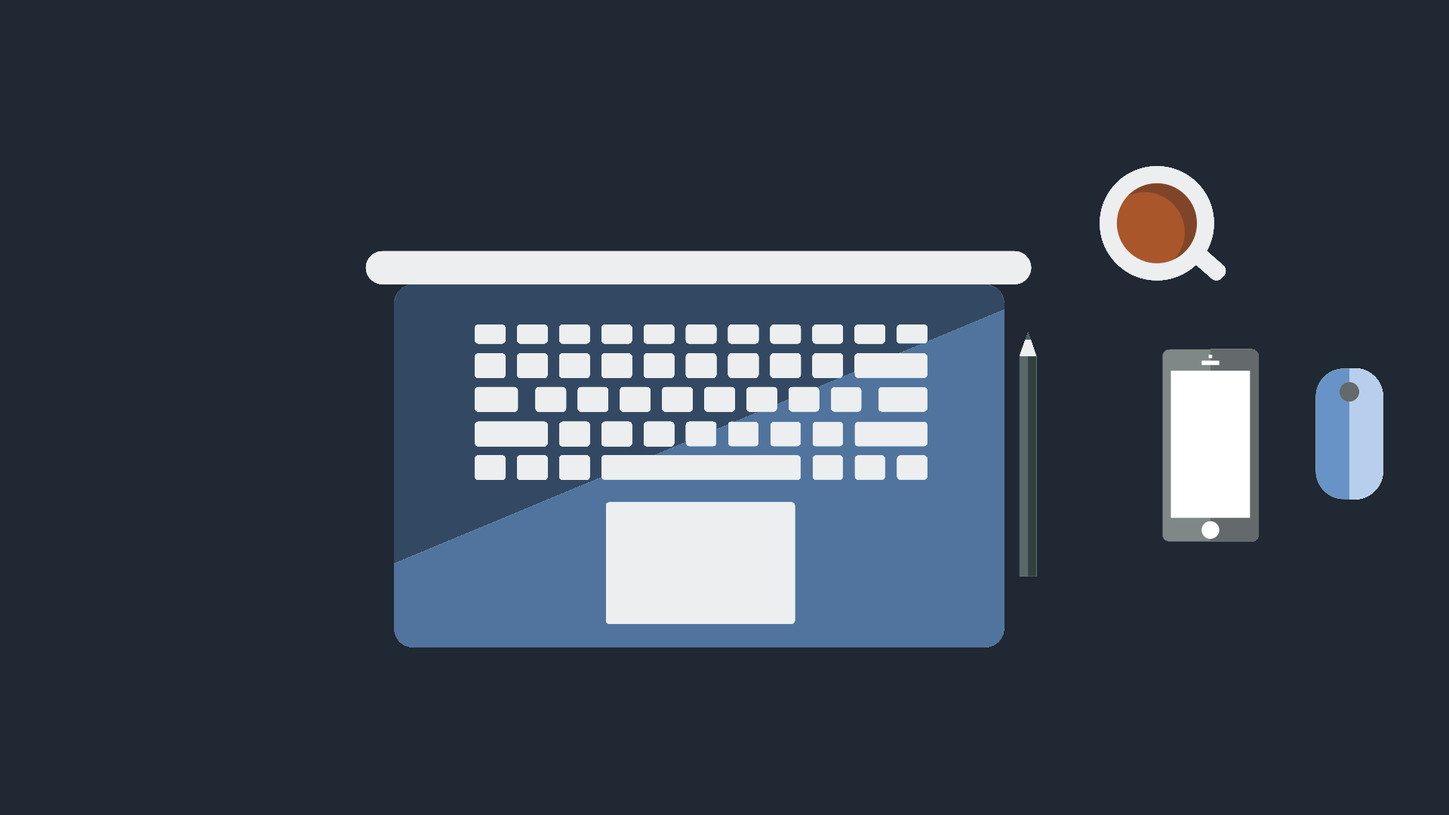
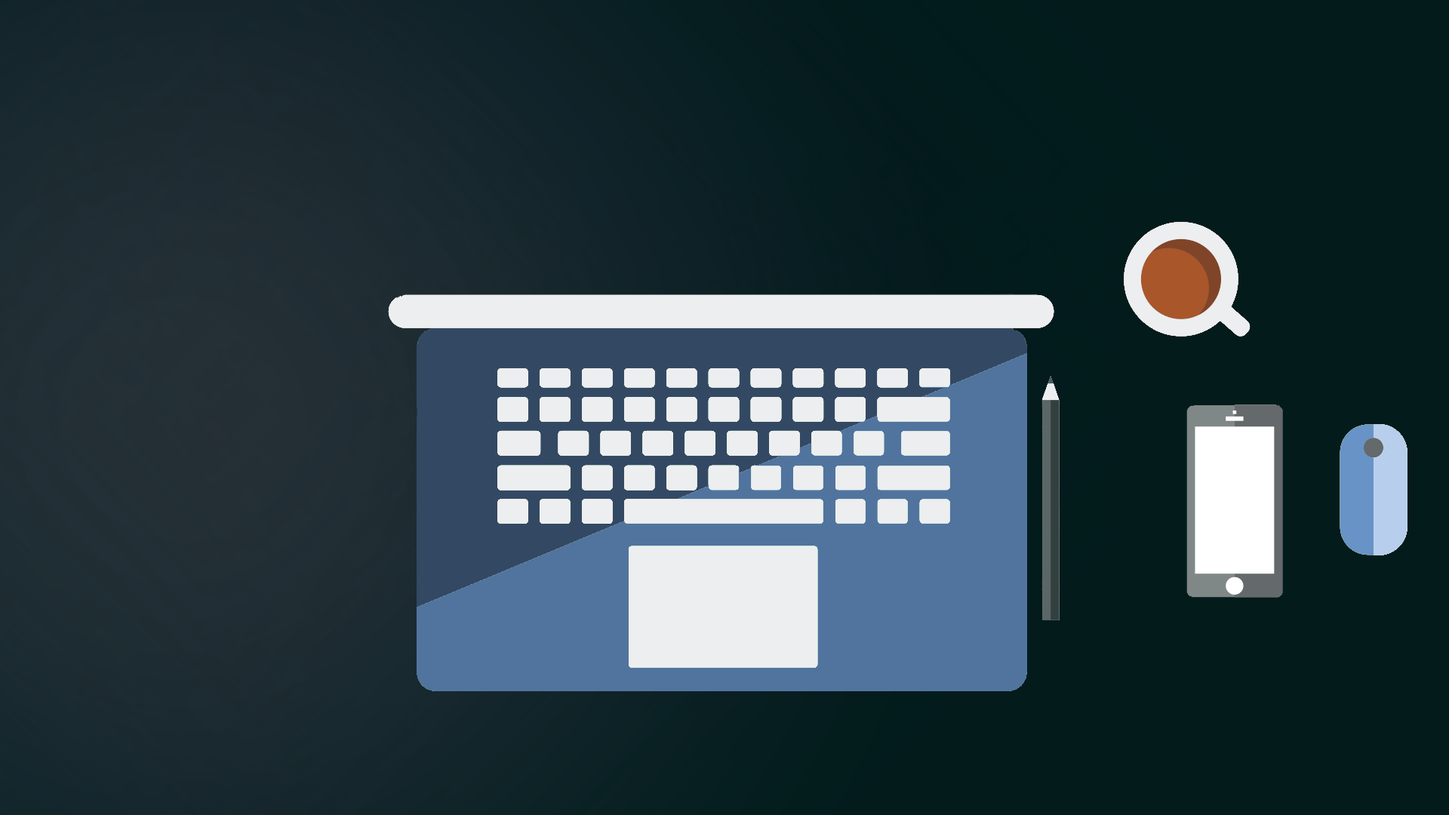
new style

diff --git a/dist/css/style.min.css b/dist/css/style.min.css
@@ -1,1 +1,1 @@
-body{margin:0;font-family:McLaren,cursive}.container{max-width:950px;margin:0 auto}.title{max-width:250px;display:block;margin:0 auto;text-align:center;font-weight:700;font-size:40px;line-height:60px;color:#66fcf1;margin-bottom:60px;border:solid 2px #66fcf1;border-radius:40px;background-color:#1f2833}.hamburger{display:none}header{min-height:40px;width:100vw}header nav{height:40px;position:fixed;display:inline-block;width:100vw;background-color:#144450;z-index:9}header nav .menu{padding-top:10px;padding-left:30px;display:flex;list-style:none}header nav .menu_item{text-decoration:none;color:#fff;font-size:20px;margin-right:20px;font-weight:700}header nav .menu_item a:-webkit-any-link{text-decoration:none;color:#66fcf1}header nav .menu_item i{color:#66fcf1}.main{min-height:1000px;padding:60px 0 60px 0;background:url(../img/firstbg3.png) center center/cover no-repeat;background-color:#1f2833}.main .tablet{display:block;top:-110px;position:relative;margin-left:50px}.main .tablet_text{position:absolute;top:77px;left:41px;line-height:29px;font-size:13px}.main .tablet_text span{font-weight:700;font-size:15px}.main h1{max-width:550px}.main h2{display:block;margin:0 auto;max-width:650px;margin-top:15px;text-align:center;font-size:25px;text-shadow:2px 1px #45a29e;color:#66fcf1;line-height:45px;border:solid 2px #66fcf1;border-radius:40px;background-color:#1f2833}.skills{position:relative;background-color:#1f2833;padding:60px 0 60px 0;min-height:700px}.skills .skills_list{margin-top:20px;list-style:none;display:flex;flex-flow:wrap;justify-content:space-around;align-content:center;align-items:center}.skills .skills_list .skills_list_item{width:295px;min-height:200px;border:solid 2px #144450b7;border-radius:30px;background-color:#66fCF1b5;margin-top:10px;color:#000}.skills .skills_list .skills_list_item img{display:block;margin:0 auto;width:100px;height:100px}.skills .skills_list .skills_list_item .skills_descr{margin-top:15px;text-align:center}.skills_divider{top:0;height:5px;width:400px;color:#fff;margin:0 auto}.small{width:70px}.portfolio{position:relative;padding:50px 0 60px 0;min-height:1000px;background:url(../img/SurfaceLaptop.jpg);background-size:1200px 750px;background-repeat:no-repeat;background-position:center center;background-color:#000}.portfolio h1{margin-bottom:0}.portfolio .portfolio-carousel{position:relative;display:block;margin:0 auto;max-width:650px;top:132px}.portfolio .portfolio-carousel img{width:647px;height:438px;margin:0 auto}.portfolio .slick-next,.portfolio .slick-prev{position:absolute;top:50%;transform:translateY(-50%);left:-96px;border:none;background-color:#000;padding:0;margin:0}.portfolio .slick-next i,.portfolio .slick-prev i{color:#ccd9d7;font-size:50px}.portfolio .slick-next{right:-86px;left:auto}.news{min-height:700px;background-color:#1f2833;padding:60px 0;background:url(../img/network.jpg) center center/cover no-repeat}.news_blog{display:flex;flex-direction:row;justify-content:space-around}.news_blog_item{padding:10px 10px;width:290px;text-align:center;background-color:#1f2833;color:#fff;border:solid 6px #144450;border-radius:10px}.news_blog_item .news_title{font-size:25px;margin-bottom:15px;font-style:bold;color:#66fcf1}footer{min-height:100px;background-color:#1f2833;padding:50px 0}footer .footer_contacts{margin:0 auto;margin-top:45px;display:flex;width:400px;justify-content:space-between;flex-direction:row;list-style:none;font-size:30px}footer .footer_contacts a{text-decoration:none;color:#66fcf1}@media screen and (max-width:1450px){.main{min-height:800px;background-size:1440px 800px;background-position:top}.main .tablet img{width:250px;height:350px;margin-left:-30px}.main .tablet_text{top:66px;left:5px;line-height:23px;font-size:12px}.main .tablet_text span{font-size:13px}.main h1{max-width:450px;margin-bottom:10px}.main h2{font-size:20px;max-width:500px}.carousel-item{height:600px}.carousel-item img{height:240px;width:254px;transform:translate(-31%,18%)}.title{font-size:33px;max-width:200px}}@media screen and (max-width:1025px){.title{font-size:28px}header nav .menu_item{font-size:16px}.main{padding-top:30px;min-height:600px;background-size:1020px 600px;background-position:top}.main h1{max-width:300px;font-size:20px}.main h2{max-width:400px;font-size:14px;line-height:25px}.main .tablet{margin-left:40px}.main .tablet img{width:200px;height:300px}.main .tablet_text{top:54px;left:-1px;line-height:20px;font-size:10px}.main .tablet_text span{font-size:12px}.portfolio{min-height:700px;background-size:1000px 500px;background-position:bottom}.portfolio .portfolio-carousel{top:166px;left:0}.portfolio .portfolio-carousel .portfolio_img{width:537px;height:288px}}@media screen and (max-width:780px){.main .tablet{display:none}footer{padding:20px 0}.portfolio{min-height:600px}.portfolio .portfolio-carousel{top:67px}.news{min-height:600px}.news_blog{flex-direction:column;align-items:center}.news_blog_item{width:310px;margin-bottom:15px}}@media screen and (max-width:525px){.title{margin-bottom:20px;font-size:20px;max-width:180px;height:50px;line-height:44px}header nav .menu{position:fixed;flex-direction:column;justify-content:center;align-items:left;top:0;left:-100%;width:47%;height:100vh;padding-left:10px;background-color:rgba(0,0,0,.8);transition:.6s all;font-size:15px}header nav .menu_item{font-size:16px;margin-bottom:30px}header nav .menu_active{left:0}.hamburger{display:block;position:absolute;right:20px;top:50%;transform:translateY(-50%);width:26px;height:12px}.hamburger span{display:block;height:2px;width:100%;background-color:#fff;margin-bottom:2px;transition:.5s all}.hamburger_active span{margin-bottom:-2px}.hamburger_active span:nth-child(1){transform:translateY(3px) rotate(-45deg)}.hamburger_active span:nth-child(2){display:none}.hamburger_active span:nth-child(3){transform:translateY(3px) rotate(45deg)}.main{background-size:400px 250px;background-position:bottom;min-height:450px}.main .tablet{display:none}.main h2{font-size:16px;padding:5px 10px}.skills{padding:20px 0}.portfolio{background-size:500px 350px;background-position:bottom;min-height:400px;padding:20px 0}.portfolio h1{margin-bottom:40px}.portfolio .portfolio-carousel{top:-5px}.portfolio .portfolio-carousel .portfolio_img{width:275px;height:210px}.news{margin:0 auto}.news_blog{flex-direction:column;align-items:center}.news_blog_item{margin-bottom:10px}footer{padding:20px 0 25px 0}footer .footer_contacts{width:300px}}
+body{margin:0;font-family:McLaren,cursive;background:url(../img/backg.png) center center/cover repeat}.container{max-width:950px;margin:0 auto}.title{max-width:250px;display:block;margin:0 auto;text-align:center;font-weight:700;font-size:40px;line-height:60px;color:#66fcf1;margin-bottom:60px}.divider{display:table;font-size:40px;text-align:center;width:75%;margin:40px auto}.divider span{display:table-cell;position:relative}.divider span:first-child,.divider span:last-child{width:50%;top:30px;background-size:100% 2px;background-position:0 0,0 100%;background-repeat:no-repeat}.divider span:first-child{background-image:linear-gradient(90deg,transparent,#66fcf1)}.divider span:nth-child(2){color:#66fcf1;padding:0 5px;width:auto;white-space:nowrap}.divider span:last-child{background-image:linear-gradient(90deg,#66fcf1,transparent)}.hamburger{display:none}header{min-height:40px;width:100vw}header nav{height:40px;position:fixed;display:inline-block;width:100vw;background-image:radial-gradient(circle 602px at 22.9% 55.3%,#1f7474 7.1%,#031b1b 90%);z-index:9}header nav .menu{padding-top:10px;padding-left:30px;display:flex;list-style:none}header nav .menu_item{text-decoration:none;color:#fff;font-size:20px;margin-right:20px;font-weight:700}header nav .menu_item a:-webkit-any-link{text-decoration:none;color:#66fcf1}header nav .menu_item i{color:#66fcf1}.main{min-height:1000px;padding:120px 0 60px 0}.main .tablet{display:block;top:-110px;position:relative;margin-left:50px}.main .tablet_text{position:absolute;top:77px;left:41px;line-height:29px;font-size:13px}.main .tablet_text span{font-weight:700;font-size:15px}.main h1{max-width:800px;font-size:60px}.main h2{display:block;margin:0 auto;max-width:650px;margin-top:15px;text-align:center;font-size:25px;color:#fff;line-height:45px}.skills{position:relative;padding:60px 0 60px 0;min-height:700px}.skills .skills_list{margin-top:20px;list-style:none;display:flex;flex-flow:wrap;justify-content:space-around;align-content:center;align-items:center}.skills .skills_list .skills_list_item{width:295px;min-height:200px;border:solid 2px #144450b7;border-radius:30px;background-color:#66fCF1b5;margin-top:10px;color:#000}.skills .skills_list .skills_list_item img{display:block;margin:0 auto;width:100px;height:100px}.skills .skills_list .skills_list_item .skills_descr{margin-top:15px;text-align:center}.skills_divider{top:0;height:5px;width:400px;color:#66fCF1b5;margin:0 auto}.small{width:70px}.portfolio{position:relative;padding:50px 0 60px 0;min-height:1000px;background:url(../img/SurfaceLaptop.png);background-size:1200px 750px;background-repeat:no-repeat;background-position:center center}.portfolio h1{margin-bottom:0}.portfolio .portfolio-carousel{position:relative;display:block;margin:0 auto;max-width:650px;top:56px}.portfolio .portfolio-carousel img{width:647px;height:439px;margin:0 auto}.portfolio .slick-next,.portfolio .slick-prev{position:absolute;top:50%;transform:translateY(-50%);left:-96px;border:none;background-color:#000;padding:0;margin:0}.portfolio .slick-next i,.portfolio .slick-prev i{color:#66fcf1;background-color:none;font-size:50px}.portfolio .slick-next{right:-86px;left:auto}.news{min-height:700px;padding:60px 0}.news_blog{display:flex;flex-direction:row;justify-content:space-around}.news_blog_item{padding:10px 10px;width:290px;text-align:center;background-color:#1f2833;color:#fff;border:solid 6px #144450;border-radius:10px}.news_blog_item .news_title{font-size:25px;margin-bottom:15px;font-style:bold;color:#66fcf1}.news .button{width:130px;height:40px;background:linear-gradient(to bottom,#031b1b 0,#3e5158 100%);border:none;border-radius:5px;position:relative;border-bottom:4px solid #243035;color:#66fcf1;text-shadow:1px 1px 1px rgba(0,0,0,.4);font-size:15px;line-height:35px;text-align:left;text-indent:5px;box-shadow:0 3px 0 0 rgba(0,0,0,.2);cursor:pointer;display:block;margin:20px auto;text-decoration:none}.news .button:active{box-shadow:0 2px 0 0 rgba(0,0,0,.2);top:1px}.news .button:after{content:"";width:0;height:0;display:block;border-top:20px solid #243035;border-bottom:20px solid #243035;border-left:16px solid transparent;border-right:20px solid #243035;position:absolute;opacity:.6;right:0;top:0;border-radius:0 5px 5px 0}footer{min-height:100px;padding:50px 0}footer .footer_contacts{margin:0 auto;margin-top:45px;display:flex;width:400px;justify-content:space-between;flex-direction:row;list-style:none;font-size:30px}footer .footer_contacts a{text-decoration:none;color:#66fcf1}@media screen and (max-width:1450px){.main{min-height:800px;background-size:1440px 800px;background-position:top}.main .tablet img{width:250px;height:350px;margin-left:-30px}.main .tablet_text{top:66px;left:5px;line-height:23px;font-size:12px}.main .tablet_text span{font-size:13px}.main h1{max-width:450px;margin-bottom:10px}.main h2{font-size:20px;max-width:500px}.carousel-item{height:600px}.carousel-item img{height:240px;width:254px;transform:translate(-31%,18%)}.title{font-size:33px;max-width:200px}}@media screen and (max-width:1025px){.title{font-size:28px}header nav .menu_item{font-size:16px}.main{padding-top:30px;min-height:600px;background-size:1020px 600px;background-position:top}.main h1{max-width:300px;font-size:20px}.main h2{max-width:400px;font-size:14px;line-height:25px}.main .tablet{margin-left:40px}.main .tablet img{width:200px;height:300px}.main .tablet_text{top:54px;left:-1px;line-height:20px;font-size:10px}.main .tablet_text span{font-size:12px}.portfolio{min-height:700px;background-size:1000px 500px;background-position:bottom}.portfolio .portfolio-carousel{top:166px;left:0}.portfolio .portfolio-carousel .portfolio_img{width:537px;height:288px}}@media screen and (max-width:780px){.main .tablet{display:none}footer{padding:20px 0}.portfolio{min-height:600px}.portfolio .portfolio-carousel{top:67px}.news{min-height:600px}.news_blog{flex-direction:column;align-items:center}.news_blog_item{width:310px;margin-bottom:15px}}@media screen and (max-width:525px){.title{margin-bottom:20px;font-size:20px;max-width:180px;height:50px;line-height:44px}header nav .menu{position:fixed;flex-direction:column;justify-content:center;align-items:left;top:0;left:-100%;width:47%;height:100vh;padding-left:10px;background-color:rgba(0,0,0,.8);transition:.6s all;font-size:15px}header nav .menu_item{font-size:16px;margin-bottom:30px}header nav .menu_active{left:0}.hamburger{display:block;position:absolute;right:20px;top:50%;transform:translateY(-50%);width:26px;height:12px}.hamburger span{display:block;height:2px;width:100%;background-color:#fff;margin-bottom:2px;transition:.5s all}.hamburger_active span{margin-bottom:-2px}.hamburger_active span:nth-child(1){transform:translateY(3px) rotate(-45deg)}.hamburger_active span:nth-child(2){display:none}.hamburger_active span:nth-child(3){transform:translateY(3px) rotate(45deg)}.main{background-size:400px 250px;background-position:bottom;min-height:450px}.main .tablet{display:none}.main h2{font-size:16px;padding:5px 10px}.skills{padding:20px 0}.portfolio{background-size:500px 350px;background-position:bottom;min-height:400px;padding:20px 0}.portfolio h1{margin-bottom:40px}.portfolio .portfolio-carousel{top:-5px}.portfolio .portfolio-carousel .portfolio_img{width:275px;height:210px}.news{margin:0 auto}.news_blog{flex-direction:column;align-items:center}.news_blog_item{margin-bottom:10px}footer{padding:20px 0 25px 0}footer .footer_contacts{width:300px}}

diff --git a/dist/index.html b/dist/index.html
@@ -1,1 +1,1 @@
-<!DOCTYPE html><html lang="en"><head><meta charset="UTF-8"><meta name="viewport" content="width=device-width,initial-scale=1"><meta http-equiv="X-UA-Compatible" content="ie=edge"><title>Vaismand</title><link rel="stylesheet" href="css/bootstrap-reboot.min.css"><link rel="stylesheet" href="css/bootstrap-grid.min.css"><link rel="stylesheet" href="css/bootstrap.min.css"><link rel="stylesheet" href="css/slick.css"><link rel="stylesheet" href="css/fonts.css"><link rel="stylesheet" href="css/animation.css"><link rel="stylesheet" href="css/style.min.css"></head><body><header><nav><ul class="menu"><li class="menu_item"><a href="#">Home</a> <i class="fas fa-home"></i></li><li class="menu_item"><a href="#skills">My skills</a> <i class="fab fa-html5"></i></li><li class="menu_item"><a href="#portfolio">Portfolio</a> <i class="fab fa-github"></i></li><li class="menu_item"><a href="#news">News</a> <i class="far fa-newspaper"></i></li><li class="menu_item"><a href="#contact_me">Contact me</a> <i class="fas fa-address-book"></i></li></ul><div class="hamburger"><span></span> <span></span> <span></span></div></nav></header><section class="main"><h1 class="title">Freelance Web-Developer</h1><h2>Hi There! My name is David and I am self-taught Web-Developer located in Vienna, AT</h2><div class="tablet"><img src="img/tablet.png" alt="tablet"><div class="tablet_text"><span>Name:</span> David Vaisman<br><span>Place:</span> Vienna, Austria<br><span>Speciality:</span> Web-Developer<br><span>Education:</span> Udemy courses<br><span>Job-style:</span> Freelance<br><span>Services:</span> Building New Sites,<br>Changing old sites, Fixing etc.</div></div></section><section id="skills" class="skills"><div class="skills_divider"></div><div class="container"><h1 class="title">My Skills</h1><div class="skills_list"><div class="skills_list_item"><img src="icons/html.png" alt="html" class="wow slideInLeft animated"><div class="skills_descr">Creating web sites with short, responsive and adaptive code</div></div><div class="skills_list_item"><img src="icons/css3_2.png" alt="css" class="wow slideInUp animated"><div class="skills_descr">Using all new features of CSS3, as flexboxing, animations etc.</div></div><div class="skills_list_item"><img src="icons/js.png" alt="js" class="wow slideInRight animated"><div class="skills_descr">Javascript for making your site interactive and responsive</div></div><div class="skills_list_item"><img src="icons/sass.png" alt="sass" class="wow slideInLeft animated"><div class="skills_descr">Sass stylesheet language for better and faster work on your project</div></div><div class="skills_list_item"><img src="icons/bootstrap.png" alt="bootstrap" class="wow slideInUp animated"><div class="skills_descr">Bootstrap4 for more interactivity and adaptivity of your sites</div></div><div class="skills_list_item"><img src="icons/jquery.png" alt="jquery" class="wow slideInRight animated"><div class="skills_descr">Jquery library and tools for better functionality of your site</div></div></div></div></section><section id="portfolio" class="portfolio"><h1 class="title">My Works</h1><div class="container"><div class="portfolio-carousel"><div><a href="www.vaismand.github.io"><img src="img/site6.jpg" alt="site" class="portfolio_img"></a></div><div><a href="www.vaismand.github.io"><img src="img/site6.jpg" alt="site" class="portfolio_img"></a></div><div><a href="www.vaismand.github.io"><img src="img/site6.jpg" alt="site" class="portfolio_img"></a></div></div></div></section><section id="news" class="news"><div class="container"><h1 class="title">IT News</h1><div class="news_blog"><div class="news_blog_item"><div class="news_title">Modern web development: what makes it ‘modern’?</div><div class="news_text">The phrase ‘modern web development’ is one that I have clung to during years writing copy for Packt books. But what does it really mean? I know it means something because it sounds right – but there’s still a part of me that feels that it’s a bit vague and empty. <a href="https://hub.packtpub.com/modern-web-development-what-makes-it-modern/">Continue reading</a></div></div><div class="news_blog_item"><div class="news_title">Modern web development: what makes it ‘modern’?</div><div class="news_text">The phrase ‘modern web development’ is one that I have clung to during years writing copy for Packt books. But what does it really mean? I know it means something because it sounds right – but there’s still a part of me that feels that it’s a bit vague and empty. <a href="https://hub.packtpub.com/modern-web-development-what-makes-it-modern/">Continue reading</a></div></div><div class="news_blog_item"><div class="news_title">Modern web development: what makes it ‘modern’?</div><div class="news_text">The phrase ‘modern web development’ is one that I have clung to during years writing copy for Packt books. But what does it really mean? I know it means something because it sounds right – but there’s still a part of me that feels that it’s a bit vague and empty. <a href="https://hub.packtpub.com/modern-web-development-what-makes-it-modern/">Continue reading</a></div></div></div></div></section><footer id="contact_me"><div class="container"><h1 class="title">Contact Me</h1><div class="footer_contacts"><a href="mailto:vaisman.david91@gmail.com"><i class="far fa-envelope"></i></a> <a href="https://www.linkedin.com/in/david-vaisman-041212129/"><i class="fab fa-linkedin"></i></a> <a href="https://github.com/vaismand/portfolio"><i class="fab fa-github"></i></a> <a href="tel:+436644757210" class="header__phone"><i class="fab fa-whatsapp"></i></a> <a href="https://join.skype.com/invite/gEVxrEIyEKgc"><i class="fab fa-skype"></i></a></div></div></footer><script src="js/wow.min.js"></script><script src="js/jquary.min.js"></script><script src="https://kit.fontawesome.com/bbb5a677af.js" crossorigin="anonymous"></script><script src="js/bootstrap.min.js"></script><script src="js/slick.min.js"></script><script src="js/script.js"></script></body></html>
+<!DOCTYPE html><html lang="en"><head><meta charset="UTF-8"><meta name="viewport" content="width=device-width,initial-scale=1"><meta http-equiv="X-UA-Compatible" content="ie=edge"><title>Vaismand</title><link rel="stylesheet" href="css/bootstrap-reboot.min.css"><link rel="stylesheet" href="css/bootstrap-grid.min.css"><link rel="stylesheet" href="css/bootstrap.min.css"><link rel="stylesheet" href="css/slick.css"><link rel="stylesheet" href="css/fonts.css"><link rel="stylesheet" href="css/animation.css"><link rel="stylesheet" href="css/style.min.css"></head><body><header><nav><ul class="menu"><li class="menu_item"><a href="#">Home</a> <i class="fas fa-home"></i></li><li class="menu_item"><a href="#skills">My skills</a> <i class="fab fa-html5"></i></li><li class="menu_item"><a href="#portfolio">Portfolio</a> <i class="fab fa-github"></i></li><li class="menu_item"><a href="#news">News</a> <i class="far fa-newspaper"></i></li><li class="menu_item"><a href="#contact_me">Contact me</a> <i class="fas fa-address-book"></i></li></ul><div class="hamburger"><span></span> <span></span> <span></span></div></nav></header><section class="main"><h1 class="title">WEB DEVELOPER</h1><h2>Hi There! My name is David and I am self-taught freelance Web-Developer located in Vienna, AT</h2></section><section id="skills" class="skills"><div class="divider"><span></span><span>My Skills</span><span></span></div><div class="container"><div class="skills_list"><div class="skills_list_item"><img src="icons/html.png" alt="html" class="wow slideInLeft animated"><div class="skills_descr">Creating web sites with short, responsive and adaptive code</div></div><div class="skills_list_item"><img src="icons/css3_2.png" alt="css" class="wow slideInUp animated"><div class="skills_descr">Using all new features of CSS3, as flexboxing, animations etc.</div></div><div class="skills_list_item"><img src="icons/js.png" alt="js" class="wow slideInRight animated"><div class="skills_descr">Javascript for making your site interactive and responsive</div></div><div class="skills_list_item"><img src="icons/sass.png" alt="sass" class="wow slideInLeft animated"><div class="skills_descr">Sass stylesheet language for better and faster work on your project</div></div><div class="skills_list_item"><img src="icons/bootstrap.png" alt="bootstrap" class="wow slideInUp animated"><div class="skills_descr">Bootstrap4 for more interactivity and adaptivity of your sites</div></div><div class="skills_list_item"><img src="icons/jquery.png" alt="jquery" class="wow slideInRight animated"><div class="skills_descr">Jquery library and tools for better functionality of your site</div></div></div></div></section><section id="portfolio" class="portfolio"><div class="divider"><span></span><span>My Works</span><span></span></div><div class="container"><div class="portfolio-carousel"><div><a href="www.vaismand.github.io"><img src="img/site6.jpg" alt="site" class="portfolio_img"></a></div><div><a href="www.vaismand.github.io"><img src="img/site6.jpg" alt="site" class="portfolio_img"></a></div><div><a href="www.vaismand.github.io"><img src="img/site6.jpg" alt="site" class="portfolio_img"></a></div></div></div></section><section id="news" class="news"><div class="divider"><span></span><span>IT News</span><span></span></div><div class="container"><div class="news_blog"><div class="news_blog_item"><div class="news_title">Modern web development: what makes it ‘modern’?</div><div class="news_text">The phrase ‘modern web development’ is one that I have clung to during years writing copy for Packt books. But what does it really mean? I know it means something because it sounds right – but there’s still a part of me that feels that it’s a bit vague and empty.</div><a class="button" href="https://hub.packtpub.com/modern-web-development-what-makes-it-modern/">Read More</a></div><div class="news_blog_item"><div class="news_title">Modern web development: what makes it ‘modern’?</div><div class="news_text">The phrase ‘modern web development’ is one that I have clung to during years writing copy for Packt books. But what does it really mean? I know it means something because it sounds right – but there’s still a part of me that feels that it’s a bit vague and empty.</div><a class="button" href="https://hub.packtpub.com/modern-web-development-what-makes-it-modern/">Read More</a></div><div class="news_blog_item"><div class="news_title">Modern web development: what makes it ‘modern’?</div><div class="news_text">The phrase ‘modern web development’ is one that I have clung to during years writing copy for Packt books. But what does it really mean? I know it means something because it sounds right – but there’s still a part of me that feels that it’s a bit vague and empty.</div><a class="button" href="https://hub.packtpub.com/modern-web-development-what-makes-it-modern/">Read More</a></div></div></div></section><footer id="contact_me"><div class="container"><div class="divider"><span></span><span>Contact Me</span><span></span></div><div class="footer_contacts"><a href="mailto:vaisman.david91@gmail.com"><i class="far fa-envelope"></i></a> <a href="https://www.linkedin.com/in/david-vaisman-041212129/"><i class="fab fa-linkedin"></i></a> <a href="https://github.com/vaismand/portfolio"><i class="fab fa-github"></i></a> <a href="tel:+436644757210" class="header__phone"><i class="fab fa-whatsapp"></i></a> <a href="https://join.skype.com/invite/gEVxrEIyEKgc"><i class="fab fa-skype"></i></a></div></div></footer><script src="js/wow.min.js"></script><script src="js/jquary.min.js"></script><script src="https://kit.fontawesome.com/bbb5a677af.js" crossorigin="anonymous"></script><script src="js/bootstrap.min.js"></script><script src="js/slick.min.js"></script><script src="js/script.js"></script></body></html>

diff --git a/src/index.html b/src/index.html
@@ -36,25 +36,12 @@
     </nav>
 </header>
 <section class="main">
-        <h1 class="title">Freelance Web-Developer</h1>
-        <h2>Hi There! My name is David and I am self-taught Web-Developer located in Vienna, AT</h2>
-    <div class="tablet">
-        <img src="img/tablet.png" alt="tablet">
-            <div class="tablet_text">
-                <span>Name:</span> David Vaisman<br>
-                <span>Place:</span> Vienna, Austria<br>
-                <span>Speciality:</span> Web-Developer<br>
-                <span>Education:</span> Udemy courses<br>
-                <span>Job-style:</span> Freelance<br>
-                <span>Services:</span> Building New Sites,<br> Changing old sites, Fixing etc.
-            </div>
-    </div>
-    
+        <h1 class="title">WEB DEVELOPER</h1>
+        <h2>Hi There! My name is David and I am self-taught freelance Web-Developer located in Vienna, AT</h2>  
 </section>
 <section id="skills" class="skills">
-    <div class="skills_divider"></div>
+    <div class="divider"><span></span><span>My Skills</span><span></span></div>
     <div class="container">
-        <h1 class="title">My Skills</h1>
         <div class="skills_list">
             <div class="skills_list_item">
                 <img src="icons/html.png" alt="html" class="wow slideInLeft animated">
@@ -88,7 +75,7 @@
     </div>
 </section>
 <section id="portfolio" class="portfolio">
-    <h1 class="title">My Works</h1>
+    <div class="divider"><span></span><span>My Works</span><span></span></div>
     <div class="container">
         <div class="portfolio-carousel">
             <div>
@@ -110,33 +97,33 @@
     </div>
 </section>
 <section id="news" class="news">
+    <div class="divider"><span></span><span>IT News</span><span></span></div>
     <div class="container">
-        <h1 class="title">IT News</h1>
         <div class="news_blog">
             <div class="news_blog_item">
                 <div class="news_title">Modern web development: what makes it ‘modern’?
                 </div>
-                <div class="news_text">The phrase ‘modern web development’ is one that I have clung to during years writing copy for Packt books. But what does it really mean? I know it means something because it sounds right – but there’s still a part of me that feels that it’s a bit vague and empty. <a href="https://hub.packtpub.com/modern-web-development-what-makes-it-modern/">Continue reading</a>
-                </div>
+                <div class="news_text">The phrase ‘modern web development’ is one that I have clung to during years writing copy for Packt books. But what does it really mean? I know it means something because it sounds right – but there’s still a part of me that feels that it’s a bit vague and empty.</div> 
+                <a class="button" href="https://hub.packtpub.com/modern-web-development-what-makes-it-modern/">Read More</a>
             </div>
             <div class="news_blog_item">
                 <div class="news_title">Modern web development: what makes it ‘modern’?
                 </div>
-                <div class="news_text">The phrase ‘modern web development’ is one that I have clung to during years writing copy for Packt books. But what does it really mean? I know it means something because it sounds right – but there’s still a part of me that feels that it’s a bit vague and empty. <a href="https://hub.packtpub.com/modern-web-development-what-makes-it-modern/">Continue reading</a>
-                </div>
+                <div class="news_text">The phrase ‘modern web development’ is one that I have clung to during years writing copy for Packt books. But what does it really mean? I know it means something because it sounds right – but there’s still a part of me that feels that it’s a bit vague and empty.</div> 
+                <a class="button" href="https://hub.packtpub.com/modern-web-development-what-makes-it-modern/">Read More</a>   
             </div>
             <div class="news_blog_item">
                 <div class="news_title">Modern web development: what makes it ‘modern’?
                 </div>
-                <div class="news_text">The phrase ‘modern web development’ is one that I have clung to during years writing copy for Packt books. But what does it really mean? I know it means something because it sounds right – but there’s still a part of me that feels that it’s a bit vague and empty. <a href="https://hub.packtpub.com/modern-web-development-what-makes-it-modern/">Continue reading</a>
-                </div>
+                <div class="news_text">The phrase ‘modern web development’ is one that I have clung to during years writing copy for Packt books. But what does it really mean? I know it means something because it sounds right – but there’s still a part of me that feels that it’s a bit vague and empty.</div> 
+                <a class="button" href="https://hub.packtpub.com/modern-web-development-what-makes-it-modern/">Read More</a>
             </div>
         </div>
     </div>
 </section>
 <footer id="contact_me">
     <div  class="container">
-        <h1 class="title">Contact Me</h1>
+        <div class="divider"><span></span><span>Contact Me</span><span></span></div>
         <div class="footer_contacts">
             <a href="mailto:vaisman.david91@gmail.com"><i class="far fa-envelope"></i></a>
             <a href="https://www.linkedin.com/in/david-vaisman-041212129/"><i class="fab fa-linkedin"></i></a>

diff --git a/src/sass/_general.sass b/src/sass/_general.sass
@@ -6,7 +6,7 @@ header
         position: fixed
         display: inline-block
         width: 100vw
-        background-color: #144450
+        background-image: radial-gradient( circle 602px at 22.9% 55.3%,  rgba(31,116,116,1) 7.1%, rgba(3,27,27,1) 90% )
         z-index: 9 
         .menu
             padding-top: 10px
@@ -26,9 +26,7 @@ header
                     color: #66FCF1
 .main
     min-height: 1000px
-    padding: 60px 0 60px 0
-    background: url("../img/firstbg3.png") center center/cover no-repeat
-    background-color: #1F2833
+    padding: 120px 0 60px 0
     .tablet
         display: block
         top: -110px
@@ -44,7 +42,8 @@ header
                 font-weight: bold
                 font-size: 15px
     h1 
-        max-width: 550px
+        max-width: 800px
+        font-size: 60px
     h2 
         display: block
         margin: 0 auto
@@ -52,16 +51,11 @@ header
         margin-top: 15px
         text-align: center
         font-size: 25px
-        text-shadow: 2px 1px #45A29E
-        color: #66FCF1
+        color: white
         line-height: 45px
-        border: solid 2px #66FCF1
-        border-radius: 40px
-        background-color: #1F2833
     
 .skills
     position: relative
-    background-color: #1F2833
     padding: 60px 0 60px 0
     min-height: 700px
     .skills_list
@@ -92,7 +86,7 @@ header
         top: 0
         height: 5px
         width: 400px
-        color: white   
+        color: #66FCF1b5   
         margin: 0 auto
 .small
     width: 70px
@@ -100,11 +94,10 @@ header
     position: relative
     padding: 50px 0 60px 0
     min-height: 1000px
-    background: url("../img/SurfaceLaptop.jpg")
+    background: url("../img/SurfaceLaptop.png")
     background-size: 1200px 750px
     background-repeat: no-repeat
     background-position: center center  
-    background-color: black
     h1 
         margin-bottom: 0
     .portfolio-carousel
@@ -112,10 +105,10 @@ header
         display: block
         margin: 0 auto
         max-width: 650px 
-        top: 132px
+        top: 56px
         img
             width: 647px
-            height: 438px
+            height: 439px
             margin: 0 auto
     .slick-prev, .slick-next  
         position: absolute
@@ -127,16 +120,15 @@ header
         padding: 0
         margin: 0
         i 
-            color: #CCD9D7
+            color: #66FCF1
+            background-color: none
             font-size: 50px
     .slick-next
         right: -86px
         left: auto
 .news
     min-height: 700px
-    background-color: #1F2833
     padding: 60px 0
-    background: url("../img/network.jpg") center center/cover no-repeat
     &_blog
         display: flex
         flex-direction: row
@@ -154,9 +146,44 @@ header
                 margin-bottom: 15px
                 font-style: bold
                 color: #66FCF1
+    .button 
+        width: 130px
+        height: 40px
+        background: linear-gradient(to bottom, #031b1b 0%,#3e5158 100%)
+        border: none
+        border-radius: 5px
+        position: relative
+        border-bottom: 4px solid #243035
+        color: #66FCF1
+        text-shadow: 1px 1px 1px rgba(0,0,0,.4)
+        font-size: 15px
+        line-height: 35px
+        text-align: left
+        text-indent: 5px
+        box-shadow: 0px 3px 0px 0px rgba(0,0,0,.2)
+        cursor: pointer
+        display: block
+        margin: 20px auto
+        text-decoration: none
+    .button:active 
+        box-shadow: 0px 2px 0px 0px rgba(0,0,0,.2)
+        top: 1px
+    .button:after 
+        content: ""
+        width: 0
+        height: 0
+        display: block
+        border-top: 20px solid #243035
+        border-bottom: 20px solid #243035
+        border-left: 16px solid transparent
+        border-right: 20px solid #243035
+        position: absolute
+        opacity: 0.6
+        right: 0
+        top: 0
+        border-radius: 0 5px 5px 0
 footer 
     min-height: 100px
-    background-color: #1F2833
     padding: 50px 0
     .footer_contacts
         margin: 0 auto

diff --git a/src/sass/style.sass b/src/sass/style.sass
@@ -1,6 +1,7 @@
 body 
     margin: 0
     font-family: 'McLaren', cursive
+    background: url("../img/backg.png") center center/cover repeat
 .container 
     max-width: 950px
     margin: 0 auto
@@ -14,9 +15,30 @@ body
     line-height: 60px
     color: #66FCF1
     margin-bottom: 60px
-    border: solid 2px #66FCF1
-    border-radius: 40px
-    background-color: #1F2833
+.divider
+    display: table
+    font-size: 40px
+    text-align: center 
+    width: 75%					
+    margin: 40px auto			      
+.divider span 
+    display: table-cell 
+    position: relative
+.divider span:first-child, .divider span:last-child 
+    width: 50%
+    top: 30px						
+    background-size: 100% 2px			
+    background-position: 0 0, 0 100%
+    background-repeat: no-repeat
+.divider span:first-child
+    background-image: linear-gradient(90deg, transparent, #66FCF1)
+.divider span:nth-child(2) 
+    color: #66FCF1 
+    padding: 0px 5px 
+    width: auto 
+    white-space: nowrap
+.divider span:last-child
+    background-image: linear-gradient(90deg, #66FCF1, transparent)
 .hamburger
 	display: none
 
